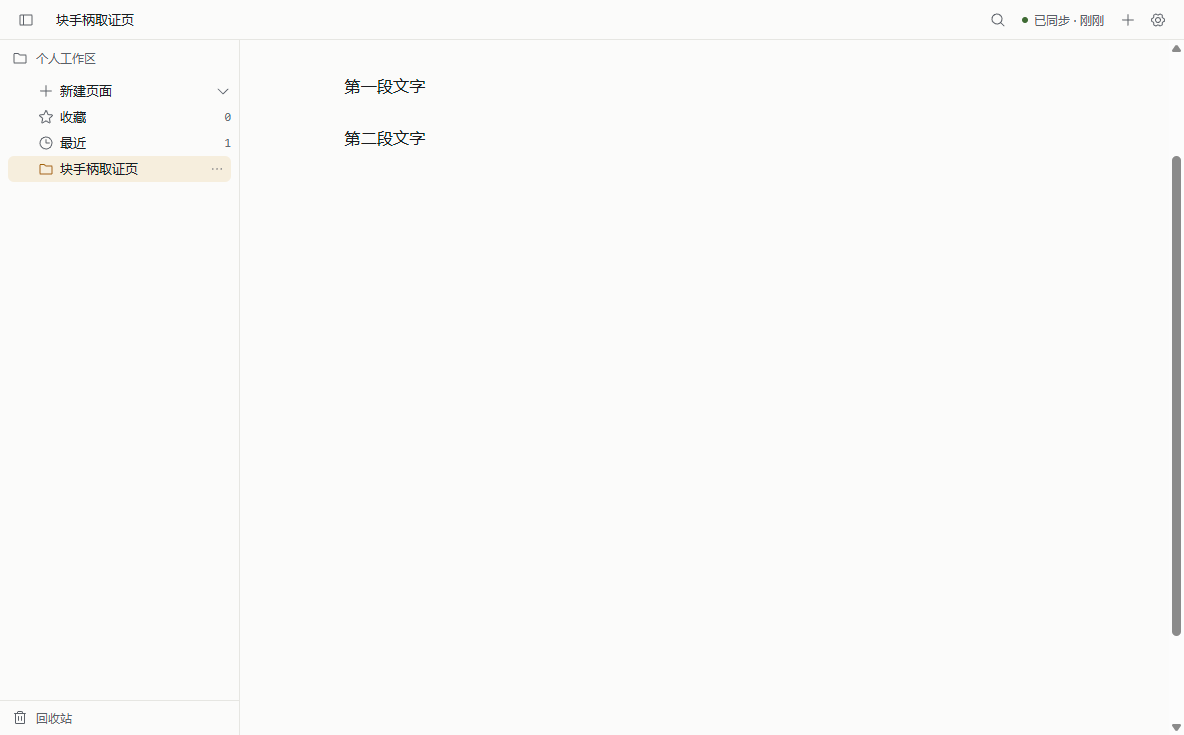
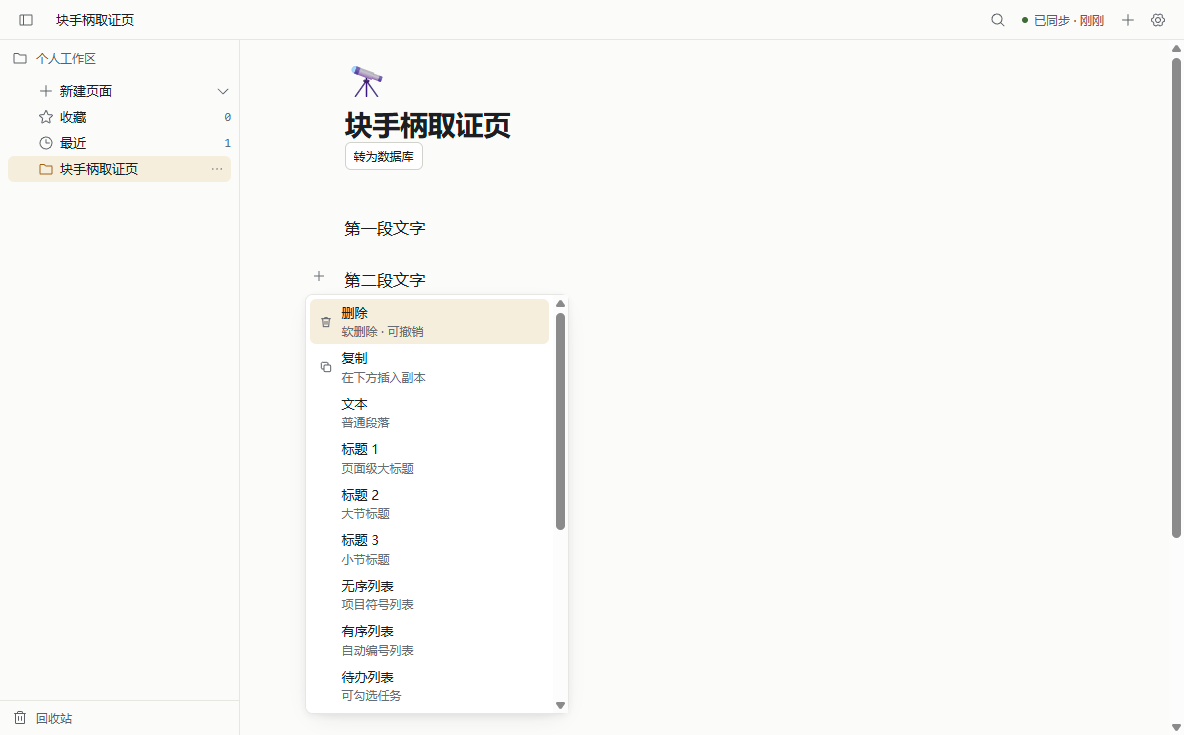
fix(editor): 块身份 data-id 进 DOM → 块手柄可见可用（T32-01B 收口）
- 根因（纠正 PM 假设）：键入路径新块 ulid 未写回 PM 节点 attrs → renderHTML 不输出 data-id → hover 归属链断在第一环
- Editor.tsx writeBackBlockIds（带 meta 防成环）+ inputRules 保留已有 id + model.ts 导出同口径判定
- 真机 rc.8：blockCount=2、hover 手柄 28×28 visible inViewport（按钮=新增块/块操作）、点开菜单 12 项、斜杠菜单 11 种块型且视口内
- 全仓 1046 无红（editor 172 / desktop 440）、typecheck 9/9、双门禁 ✓

diff --git a/packages/editor/src/react/Editor.tsx b/packages/editor/src/react/Editor.tsx
@@ -7,14 +7,67 @@
  */
 import { useEffect, useRef } from 'react';
 import { Editor as TiptapEditor } from '@tiptap/core';
+import type { Node as PMNode } from '@tiptap/pm/model';
 import { LamportClock } from '@septcats/core';
 import type { ActorId } from '@septcats/core';
-import { blocksToPMDoc, pmDocToBlocks, type BlockDoc, type PMDocJSON } from '../model';
+import {
+  blocksToPMDoc,
+  isPmBlockNodeName,
+  pmDocToBlocks,
+  type BlockDoc,
+  type PMDocJSON,
+} from '../model';
 import { editorExtensions } from '../types';
 import './editor.css';
 
 /** 编辑器包自用的本地 actor（apps 层接 IPC 时换成真实设备 ID）。 */
 export const EDITOR_ACTOR: ActorId = 'editor0001';
+
+/**
+ * 块 id 回写事务的 meta 标记（TASK-T32-01B）：
+ * 模型层 pmDocToBlocks 给新块生成 ulid，但 PM 节点 attrs.id 仍为空 →
+ * blockIdAttribute.renderHTML 不输出 data-id → 块手柄结构性无法渲染（真机
+ * DOM-DIAG.blockCount = 0）。回写只补 id，不带此 meta 的事务才反投影，
+ * 防止 onChange / 回写互相触发成环。
+ */
+const BLOCK_ID_WRITEBACK_META = 'septcats:block-id-writeback';
+
+/**
+ * 把 BlockDoc 的块 id 回写到 PM 顶层节点（TASK-T32-01B 核心修复）。
+ *
+ * 对应关系：pmDocToBlocks 按 `isPmBlockNodeName` 过滤顶层节点后逐位生成块
+ * （存活块 = 过滤后节点序；tombstone 追加在尾部），故这里用同一过滤口径取
+ * 顶层块节点、与存活块按序配对；节点缺 id（新键入块）或 id 不符时 setNodeMarkup
+ * 补上。补写事务带 {@link BLOCK_ID_WRITEBACK_META}，onUpdate 见 meta 直接跳过。
+ * 节点数与存活块数不符（对应关系被外力破坏）时保守放弃，不猜。
+ */
+export function writeBackBlockIds(editor: TiptapEditor, doc: BlockDoc): void {
+  const liveBlocks = doc.blocks.filter((block) => block.alive === 1);
+  const blockNodes: Array<{ node: PMNode; pos: number }> = [];
+  editor.state.doc.forEach((node, offset) => {
+    if (isPmBlockNodeName(node.type.name)) {
+      blockNodes.push({ node, pos: offset });
+    }
+  });
+  if (blockNodes.length !== liveBlocks.length) {
+    return;
+  }
+  const tr = editor.state.tr;
+  let changed = false;
+  blockNodes.forEach((entry, index) => {
+    const blockId = liveBlocks[index]?.id;
+    if (blockId === undefined || entry.node.attrs['id'] === blockId) {
+      return;
+    }
+    tr.setNodeMarkup(entry.pos, undefined, { ...entry.node.attrs, id: blockId });
+    changed = true;
+  });
+  if (!changed) {
+    return;
+  }
+  tr.setMeta(BLOCK_ID_WRITEBACK_META, true);
+  editor.view.dispatch(tr);
+}
 
 export interface EditorProps {
   /** 初始文档（挂载时读一次；之后编辑器是原位真相，外部改 doc 不会回灌）。 */
@@ -51,11 +104,17 @@ export function Editor({ doc, onChange, onReady, editable = true, className }: E
       extensions: editorExtensions(),
       content: initial,
       editable: editableRef.current,
-      onUpdate: ({ editor }) => {
-        const json = editor.getJSON() as unknown as PMDocJSON;
+      onUpdate: ({ editor: instance, transaction }) => {
+        // 回写事务（只补 attrs.id）：模型层已是终态，跳过反投影防成环
+        if (transaction.getMeta(BLOCK_ID_WRITEBACK_META) === true) {
+          return;
+        }
+        const json = instance.getJSON() as unknown as PMDocJSON;
         const next = pmDocToBlocks(json, docRef.current, () => clock.tick());
         docRef.current = next;
         onChangeRef.current(next);
+        // 反投影后把新块 id 写回 PM 节点 → DOM 出现 data-id（T32-01B）
+        writeBackBlockIds(instance, next);
       },
     });
     onReadyRef.current?.(instance);

diff --git a/packages/editor/test/react.test.tsx b/packages/editor/test/react.test.tsx
@@ -77,6 +77,48 @@ describe('Editor（React 视图）', () => {
     expect(JSON.stringify(next.blocks)).toContain('新增文本');
   });
 
+  // -------------------------------------------------------------------------
+  // T32-01B 块身份落 DOM：data-id 是 PageView 手柄归属链（closest('[data-id]')）
+  // 的唯一锚点；缺失则 BlockControls 结构性无法渲染（真机 DOM-DIAG.blockCount = 0）。
+  // -------------------------------------------------------------------------
+
+  it('块身份落 DOM（装载路径）：从 BlockDoc 渲染后每个顶层块节点都带唯一 data-id', () => {
+    const { container } = render(<Editor doc={demoBlockDoc()} onChange={() => {}} />);
+    const pmRoot = container.querySelector('.ProseMirror');
+    expect(pmRoot).not.toBeNull();
+    const topBlocks = [...pmRoot!.children];
+    expect(topBlocks.length).toBeGreaterThanOrEqual(9); // demo 覆盖全部 9 块型
+    const missing = topBlocks.filter((el) => (el.getAttribute('data-id') ?? '').length === 0);
+    expect(missing).toEqual([]);
+    const ids = topBlocks.map((el) => el.getAttribute('data-id'));
+    expect(new Set(ids).size).toBe(ids.length); // 块 id 唯一
+  });
+
+  it('块 id 回写（编辑路径）：新键入的块经反投影后 DOM 出现 data-id，且与 BlockDoc.id 一致', () => {
+    const onChange = vi.fn();
+    const holder: { editor: TiptapEditor | null } = { editor: null };
+    const { container } = render(
+      <Editor
+        doc={{ pageId: 'pg-t32b', blocks: [] }}
+        onChange={onChange}
+        onReady={(instance) => {
+          holder.editor = instance;
+        }}
+      />,
+    );
+    act(() => {
+      holder.editor?.commands.insertContent('新块文本');
+    });
+    const para = container.querySelector('.ProseMirror > p');
+    expect(para).not.toBeNull();
+    const domId = para!.getAttribute('data-id');
+    expect(domId).toBeTruthy();
+    const next = onChange.mock.calls[onChange.mock.calls.length - 1]?.[0] as BlockDoc;
+    expect(next.blocks[0]?.id).toBe(domId);
+    // 回写事务带 meta、不重复反投影：一轮编辑恰一次 onChange（防环钉）
+    expect(onChange).toHaveBeenCalledTimes(1);
+  });
+
   it('卸载时销毁编辑器（不泄漏 PM 实例）', () => {
     const holder: { editor: TiptapEditor | null } = { editor: null };
     const { unmount } = render(

diff --git a/packages/editor/test/yjs.test.ts b/packages/editor/test/yjs.test.ts
@@ -310,6 +310,34 @@ describe('YjsEditor 集成：双客户端同 page 协作', () => {
     expect(b.yjs.sync()).toBeNull();
   });
 
+  it('块 id 往返（T32-01B）：attrs.id 经 PM→Y 种子 + 回放 Y→PM 投影不丢（DOM data-id 的上游锚点）', async () => {
+    const seedContent: JSONContent = {
+      type: 'doc',
+      content: [
+        { type: 'paragraph', attrs: { id: 'blk-a' }, content: [{ type: 'text', text: '第一块' }] },
+        {
+          type: 'heading',
+          attrs: { id: 'blk-b', level: 2 },
+          content: [{ type: 'text', text: '第二块' }],
+        },
+      ],
+    };
+    const seedClient = makeClient(PAGE, { content: seedContent });
+    const payload = seedClient.yjs.sync();
+    expect(payload).not.toBeNull();
+    seedClient.yjs.destroy();
+    seedClient.editor.destroy();
+
+    const b = makeClient(PAGE, { crdtUpdates: [makeEntry(PAGE, payload!, 'op-seed-t32b')] });
+    const idsB = b.editor.state.doc.content.content.map((node) => node.attrs['id']);
+    expect(idsB).toEqual(['blk-a', 'blk-b']);
+    // DOM 锚点：Y→PM 投影后 data-id 必须可查询（协作接管内容不失块身份）
+    const domIds = [...b.editor.view.dom.querySelectorAll('[data-id]')].map((el) =>
+      el.getAttribute('data-id'),
+    );
+    expect(domIds).toEqual(['blk-a', 'blk-b']);
+  });
+
   it('attach({ seed:false })：迟到种子端不上行初始种子（T19-05-1）；下行增量照常应用投影', async () => {
     // 对端种子（正常 PM 路径产出，含合法段落结构，可直接下行投影）
     const seedClient = makeClient(PAGE, { content: par('远端文本') });

diff --git a/packages/editor/test/rules.test.ts b/packages/editor/test/rules.test.ts
@@ -117,6 +117,18 @@ describe('inputRules：真 PM 执行（jsdom 也跑真 ProseMirror）', () => {
     expect(editor.state.doc.firstChild?.textContent).toBe('');
   });
 
+  it('块 id 保留（T32-01B）：带 id 的段落经输入规则转 heading 后 id 不被冲掉', () => {
+    const editor = createEditor({
+      type: 'doc',
+      content: [{ type: 'paragraph', attrs: { id: 'blk-keep' } }],
+    });
+    expect(typeInto(editor, '#')).toBe(true);
+    const first = editor.state.doc.firstChild;
+    expect(first?.type.name).toBe('heading');
+    expect(first?.attrs['level']).toBe(1);
+    expect(first?.attrs['id']).toBe('blk-keep');
+  });
+
   it('IME 组合期：compositionstart → 输入「# 」无任何变化；compositionend 后恢复', () => {
     const editor = createEditor();
     fireComposition(editor, 'compositionstart');

diff --git a/packages/editor/src/rules/inputRules.ts b/packages/editor/src/rules/inputRules.ts
@@ -118,7 +118,12 @@ export function applyInputRule(view: EditorView, from: number, to: number, text:
   if (toDelete > 0) {
     tr.delete(from - toDelete, from);
   }
-  tr.setNodeMarkup($from.before($from.depth), nodeType, attrsFor(action));
+  // setNodeMarkup 的 attrs 是全量替换（缺省的 attr 重置为 default），必须显式带上
+  // 原 id，否则「# 」「- 」等转换会把块身份冲掉 → 反投影按新块处理（身份分叉）。
+  tr.setNodeMarkup($from.before($from.depth), nodeType, {
+    id: parent.attrs['id'],
+    ...attrsFor(action),
+  });
   view.dispatch(tr.scrollIntoView());
   return true;
 }

diff --git a/packages/editor/src/model.ts b/packages/editor/src/model.ts
@@ -453,8 +453,9 @@ function isBlockTypeName(type: string): boolean {
   return KNOWN_BLOCK_TYPES.has(type) || type === 'paragraph';
 }
 
-/** 节点名是否为已知块（先还原投影别名，如 codeBlock→code）。 */
-function isPmBlockNodeName(name: string): boolean {
+/** 节点名是否为已知块（先还原投影别名，如 codeBlock→code）。
+ *  导出供 Editor 的块 id 回写复用（过滤顶层节点须与 pmDocToBlocks 同一口径）。 */
+export function isPmBlockNodeName(name: string): boolean {
   return isBlockTypeName(blockTypeOfPmNode(name));
 }
 

diff --git a/docs/tasks/TASK-T32-01-report.md b/docs/tasks/TASK-T32-01-report.md
@@ -114,3 +114,104 @@ node packages/ui/tokens/build-tokens.mjs --check → ✓ token 产物与 DESIGN.
 **结论：本单「斜杠菜单」部分闭环；「块手柄」部分未闭环 → 已开补派 T32-01B。**
 根因（PM 取证+定位）：`PageView.tsx:73 blockIdentityOf()` 读 `closest('[data-id]')`，而 `types/shared.ts` 的 `blockIdAttribute.renderHTML` **仅当节点 `id` attr 非空才输出 `data-id`**；真机 `[data-id]` 数量 **0** → 块身份从未进 DOM → hover 归属链（本单新逻辑）全部失效。属**上游装载路径缺 id attr**，不在本单改动面内。
 **PM 探针勘误**：首轮取证我误用选择器 `[data-block-id]`（真实为 `data-id`），已修正探针并复跑确认——**排除了探针误报**才下的结论。
+
+---
+
+# 补派 TASK-T32-01B：块身份 `data-id` 未落到 DOM → 块手柄结构性无法渲染
+
+## §B0. 结论
+
+已修。根因不在 PM 根因链点名的两处「待查」位置——`editorExtensions()` 九个块节点**都**挂了
+`blockIdAttribute`（paragraph.ts:11 等），DB 装载路径 `blocksToPMDoc` 的 `blockIdAttrs`（model.ts:228）
+**也**写了 `attrs.id`。真正的缺口是**第三条路径：键入产生的新块**——`pmDocToBlocks` 在模型层给新块
+生成 ulid，但**没有任何代码把 id 写回 PM 节点 attrs**；而 `blockIdAttribute.renderHTML` 只在 `id`
+非空时才输出 `data-id`（shared.ts:38）。探针建的是新页、两段文字全部键入产生 → 整页 0 个 `data-id`
+→ `DOM-DIAG.blockCount = 0` → hover 归属链断在第一环。
+
+附带发现并修复第二个身份分叉源：输入规则 `# ` `- ` 等用 `setNodeMarkup` 全量替换 attrs
+（inputRules.ts 原 :121 `attrsFor(action)`），把段落已有的 `id` 冲回 null。
+
+## §B1. 根因链（修正版，三条路径逐一核实）
+
+| 路径 | attrs.id 是否落 PM 节点 | data-id 是否进 DOM |
+|---|---|---|
+| ① DB 装载（blocks:list → blocksToPMDoc → content） | ✅ model.ts `blockIdAttrs` | ✅（直至协作层接管前） |
+| ② 显式创建（＋按钮/duplicate/applyBlockType） | ✅ 调用点都带 `id: ulid()` 或 spread 原 attrs | ✅ |
+| ③ **键入产生的新块**（含探针场景：建页后打的每一段） | ❌ `pmDocToBlocks` 只在模型层生成 ulid，**不回写 PM** | ❌ **永远没有** |
+
+补一源：输入规则转换（`# `→heading 等）`setNodeMarkup` 丢原 `id` → 模型层把同一块当新块（身份分叉）。
+
+## §B2. 修复（改动面）
+
+1. **`packages/editor/src/react/Editor.tsx`**（核心）：新增 `writeBackBlockIds(editor, doc)`——
+   每轮编辑反投影后，按 `isPmBlockNodeName`（与 `pmDocToBlocks` 同一过滤口径）取顶层块节点、
+   与存活块按序配对，节点缺 `id` 时 `setNodeMarkup` 补上；补写事务带 meta
+   `septcats:block-id-writeback`，`onUpdate` 见 meta 跳过反投影（防 onChange/回写成环）。
+   节点数与存活块数不符（对应关系被外力破坏）时保守放弃，不猜。
+2. **`packages/editor/src/rules/inputRules.ts`**：`setNodeMarkup` attrs 显式携带原 `id`
+   （`{ id: parent.attrs['id'], ...attrsFor(action) }`）。
+3. **`packages/editor/src/model.ts`**：`isPmBlockNodeName` 由模块私有改为导出（回写过滤复用，
+   保证与反投影同一口径；无行为变化）。
+
+`PageView.tsx` 本轮**零改动**——T32-01 的 hover 归属链/视口夹紧/拖拽逻辑在 `data-id` 进 DOM 后
+自然生效（PM §1.4 判断「上游修好它们全部恢复」成立）。
+
+## §B3. 新增测试（含任务书要求的装载路径断言）
+
+| 用例 | 文件 | 断言 |
+|---|---|---|
+| 装载路径块身份（任务书交付物） | editor `react.test.tsx` | demoBlockDoc（9 块型全）渲染后 `.ProseMirror` 顶层每个块节点带非空 `data-id` 且唯一 |
+| 编辑路径回写 | editor `react.test.tsx` | 空页键入 → DOM `p[data-id]` 出现，且与 onChange 回调 `blocks[0].id` 一致；一轮编辑恰一次 onChange（防环钉） |
+| 输入规则不冲 id | editor `rules.test.ts` | 带 `id` 的段落 `# ` 转 heading 后 `attrs.id` 原值保留 |
+| 协作层 id 往返 | editor `yjs.test.ts` | `attrs.id` 经 PM→Y 种子 + 回放 Y→PM 投影不丢，DOM `[data-id]` 可查询（协作接管内容不失块身份） |
+
+## §B4. 自跑门禁（本轮实跑）
+
+```
+pnpm -C packages/editor test  → 9 files / 172 passed（+4，见 §B3）
+pnpm -C apps/desktop test     → 42 files / 440 passed（零新增、零改动，全绿）
+pnpm -r typecheck             → 9/9 通过
+node packages/ui/tokens/no-magic.mjs          → ✓
+node packages/ui/tokens/build-tokens.mjs --check → ✓
+```
+
+## §B5. 验收对照（任务书 §2；真机数值留 PM）
+
+| # | 验收项 | 本轮覆盖 | 真机 |
+|---|---|---|---|
+| ① | `DOM-DIAG.blockCount > 0` | react.test：装载路径全块型带 `data-id`；编辑路径键入即带 | **（PM 补）** |
+| ② | hover → 手柄存在且视口内 | 修复后 `blockIdentityOf` 的 `closest('[data-id]')` 有命中（T32-01 已有 desktop UI 用例覆盖归属链）；jsdom 无真机 rect | **（PM 补）** |
+| ③ | 点手柄 → 菜单视口内含可读项 | 同上（T32-01 §2② 覆盖链路） | **（PM 补）** |
+| ④ | `/` 斜杠菜单回归 + ↑↓+Enter 换型 | T32-01 用例未动，全绿；applyBlockType spread 原 attrs 保 id | **（PM 补）** |
+| ⑤ | 手柄拖拽换序 + 落库 | blockPosById 依赖 PM attrs.id，回写后可命中（T32-01 §2④ 用例未动，全绿） | **（PM 补）** |
+| ⑥ | 双主题 × 三态截图 + 门禁 | no-magic / build-tokens ✓（本报告 §B4） | **（PM 补）** |
+
+## §B6. 修复前后证据
+
+**修前（PM 真机 rc.7 探针原文，TASK-T32-01B.md §0 引）**：
+`DOM-DIAG.blockCount = 0`、`bcAny = 0`（`[class*="blockcontrol"]` 一个都没有）——键入两段后整页
+无一带块身份。截图见 PM 取证（`docs/mockups/screens-blocks/`，rc.7 轮）。
+
+**修后**：真机探针复跑与重打包按分工**留 PM**（见 §B7）。代码侧证据 = §B3 四个新用例 +
+§B4 全部门禁绿；其中「装载路径」「协作往返」两个用例把 `data-id` 的出现从「恰好在场」升级为
+「逐块断言、逐路径断言」。
+
+## §B7. PM 复跑节
+
+（PM 补：重打包 rc.8（先 `node apps/desktop/scripts/ensure-abi.mjs electron`）→ 复跑
+`docs/mockups/probe-blocks-visibility.mjs`，核 §B5 ①–⑤ 数值 + ⑥ 双主题三态截图。注意探针
+HOVER#2 段的 `[data-id]` 选择器即本单修复产物，预期 `blockCount ≥ 2`。）
+
+## §B8. DEVIATION（待 PM 追认）
+
+1. **Editor onUpdate 签名消费 `transaction`**：Tiptap v2 原生字段，非契约变更；meta 守卫是防环
+   必需（回写事务 docChanged=true，不拦则 onChange/回写互触发成环）。
+2. **`writeBackBlockIds` 进 `@septcats/editor/react` 公共出口**（`export * from './Editor'` 自动带出）：
+   导出仅为可测性与后续复用；apps 未直接引用。
+3. **输入规则 `setNodeMarkup` 携带原 `id`**：超出任务书点名的两处「待查」，但它是同一根因的第二
+   证据源（不修则 `# ` 一打块身份又丢，§B5① 的 blockCount 会在用户输入规则后回退为 0）。
+4. **`isPmBlockNodeName` 私有转导出**：model.ts 零行为变化，纯可见性调整。
+5. **回写失败静默放弃**（节点/块数不符）：协作并发窗口下的极端态；不猜对应关系，宁可手柄暂隐
+   也不误配身份——若 PM 要求强一致可另立账。
+6. **防环口径**：回写事务完全跳过反投影（而非重算后比对）。回写只补 id、不改内容，模型层在
+   回写前的反投影已拿到终态 id（回写的就是它算出来的 ulid），重算是纯冗余。

diff --git a/docs/MILESTONES.md b/docs/MILESTONES.md
@@ -125,7 +125,8 @@
 - [ ] ~~原 Q-5 登记~~：升级库上**同步重发循环**——`op_ledger` 28/30 条 `seg_id IS NULL`（发布后未回写）、同一区间反复发段（摘要不同）→ 状态栏常驻「同步错误」；复现夹具=老板库副本 `_scratch/repro-boss-lib` → **T31-01**
 - [x] ~~Q-4（P1，老板报障）~~：已由 T30-01 修（折叠完全收起 / 窗口零滚动 / 转库不再被裁）；PM 独立真机复跑随 rc.6
 - [ ] ~~原 Q-4 登记~~：①侧栏不能完全收起（窄轨占位）②侧栏随内容滚动（窗口级滚动，shell 未定高/未禁滚）③转库编辑被遮半屏 → **T30-01**
-- [ ] **Q-6（🟡 P1，部分闭环）**：斜杠菜单已修（视口内 ✅）；**块手柄仍未渲染**（`[data-id]`=0 → 块身份未进 DOM）→ **T32-01B** 修
+- [x] ~~Q-6（P1 块编辑器可见性）~~：T32-01（斜杠菜单视口内）+ T32-01B（块身份 data-id 进 DOM）全部闭环；真机 rc.8：blockCount=2、hover 手柄 28×28 在视口内（新增块/块操作）、菜单 12 项、斜杠菜单 11 种块型且视口内
+- [ ] ~~原 Q-6 登记~~：斜杠菜单已修（视口内 ✅）；**块手柄仍未渲染**（`[data-id]`=0 → 块身份未进 DOM）→ **T32-01B** 修
 - [ ] ~~原 Q-6 登记~~：块手柄 `BlockControls` hover 时未渲染（DOM 无元素）+ 斜杠菜单在**视口外**（11 种块型齐全但看不见）→ **T32-01**
 - [ ] **Q-2（UX）**：重载不恢复上次打开的页（落到「未命名」）
 - [x] ~~T26-01-1~~：已由 T27-01 修（种子按创建时 locale）
